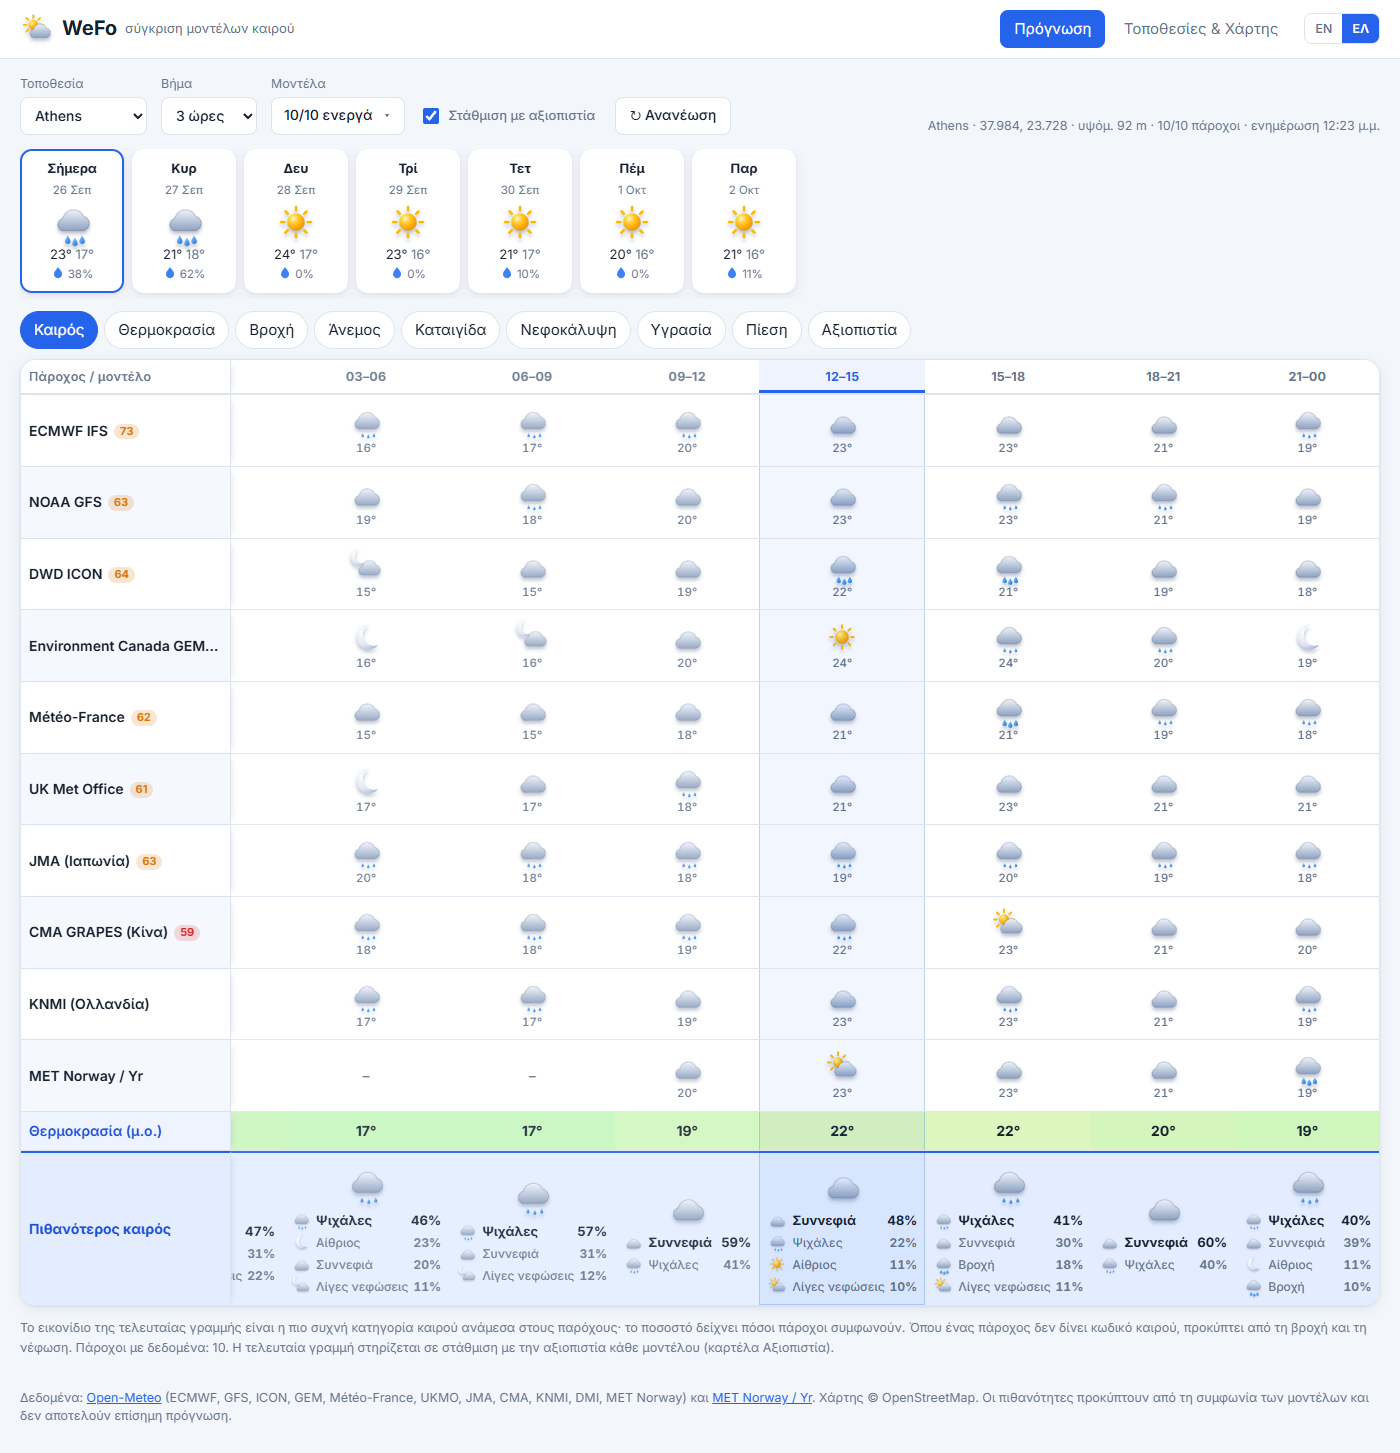
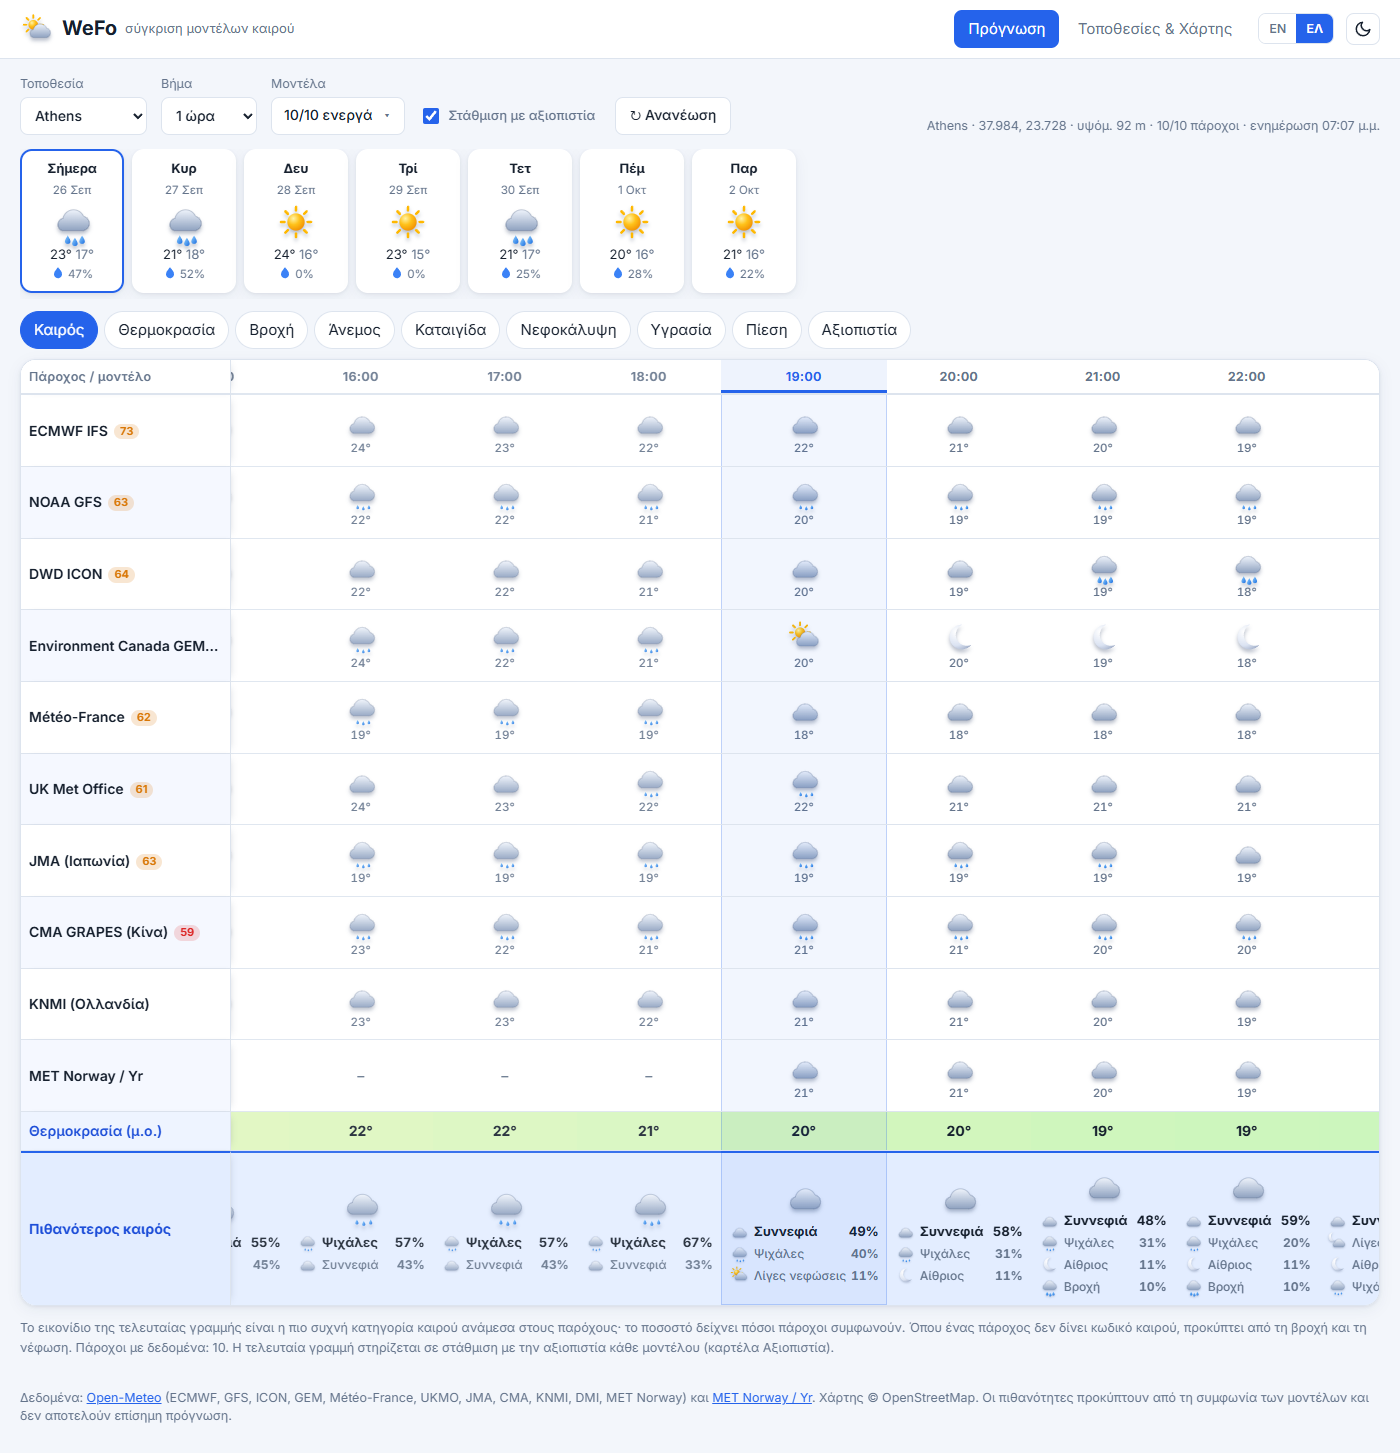
Refresh screenshots (1-hour default step), add history and dark theme screenshots, regenerate collage

diff --git a/README.md b/README.md
@@ -38,6 +38,14 @@ WeFo is a small self-hosted web app that puts the forecasts of many **free** wea
 
 ![Locations & Map](docs/screenshots/locations-map.png)
 
+**Location history** – records, annual/monthly climate and charts since 1940 for a saved location (downloaded once, then cached)
+
+![Location history](docs/screenshots/history.png)
+
+**Dark theme**
+
+![Dark theme](docs/screenshots/forecast-dark.png)
+
 **Responsive layout** (phone) and **Greek UI**
 
 <p>
